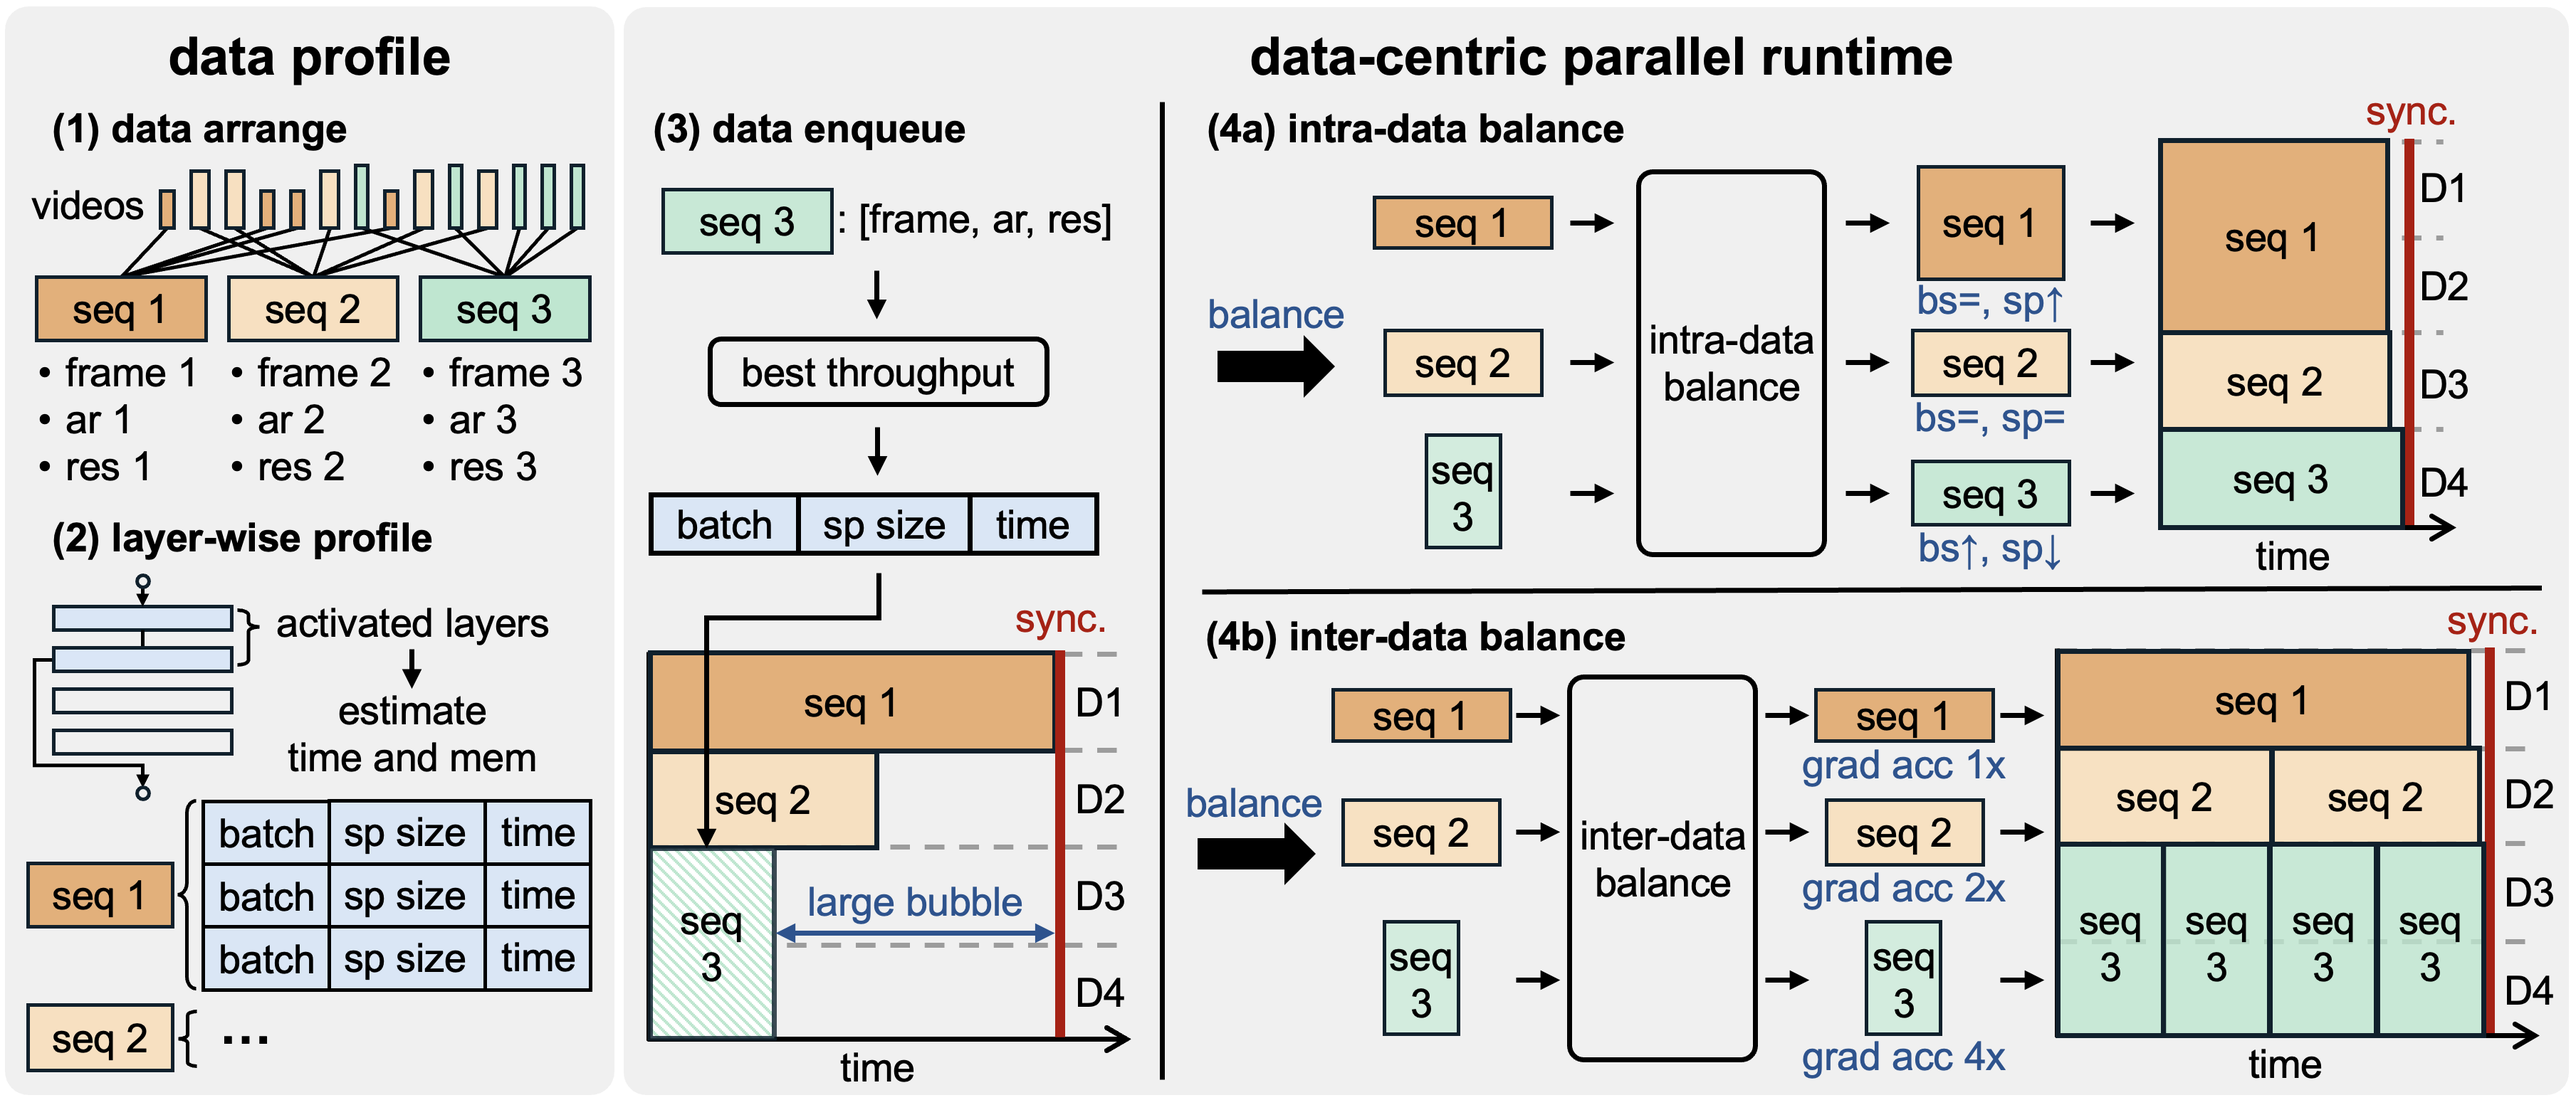
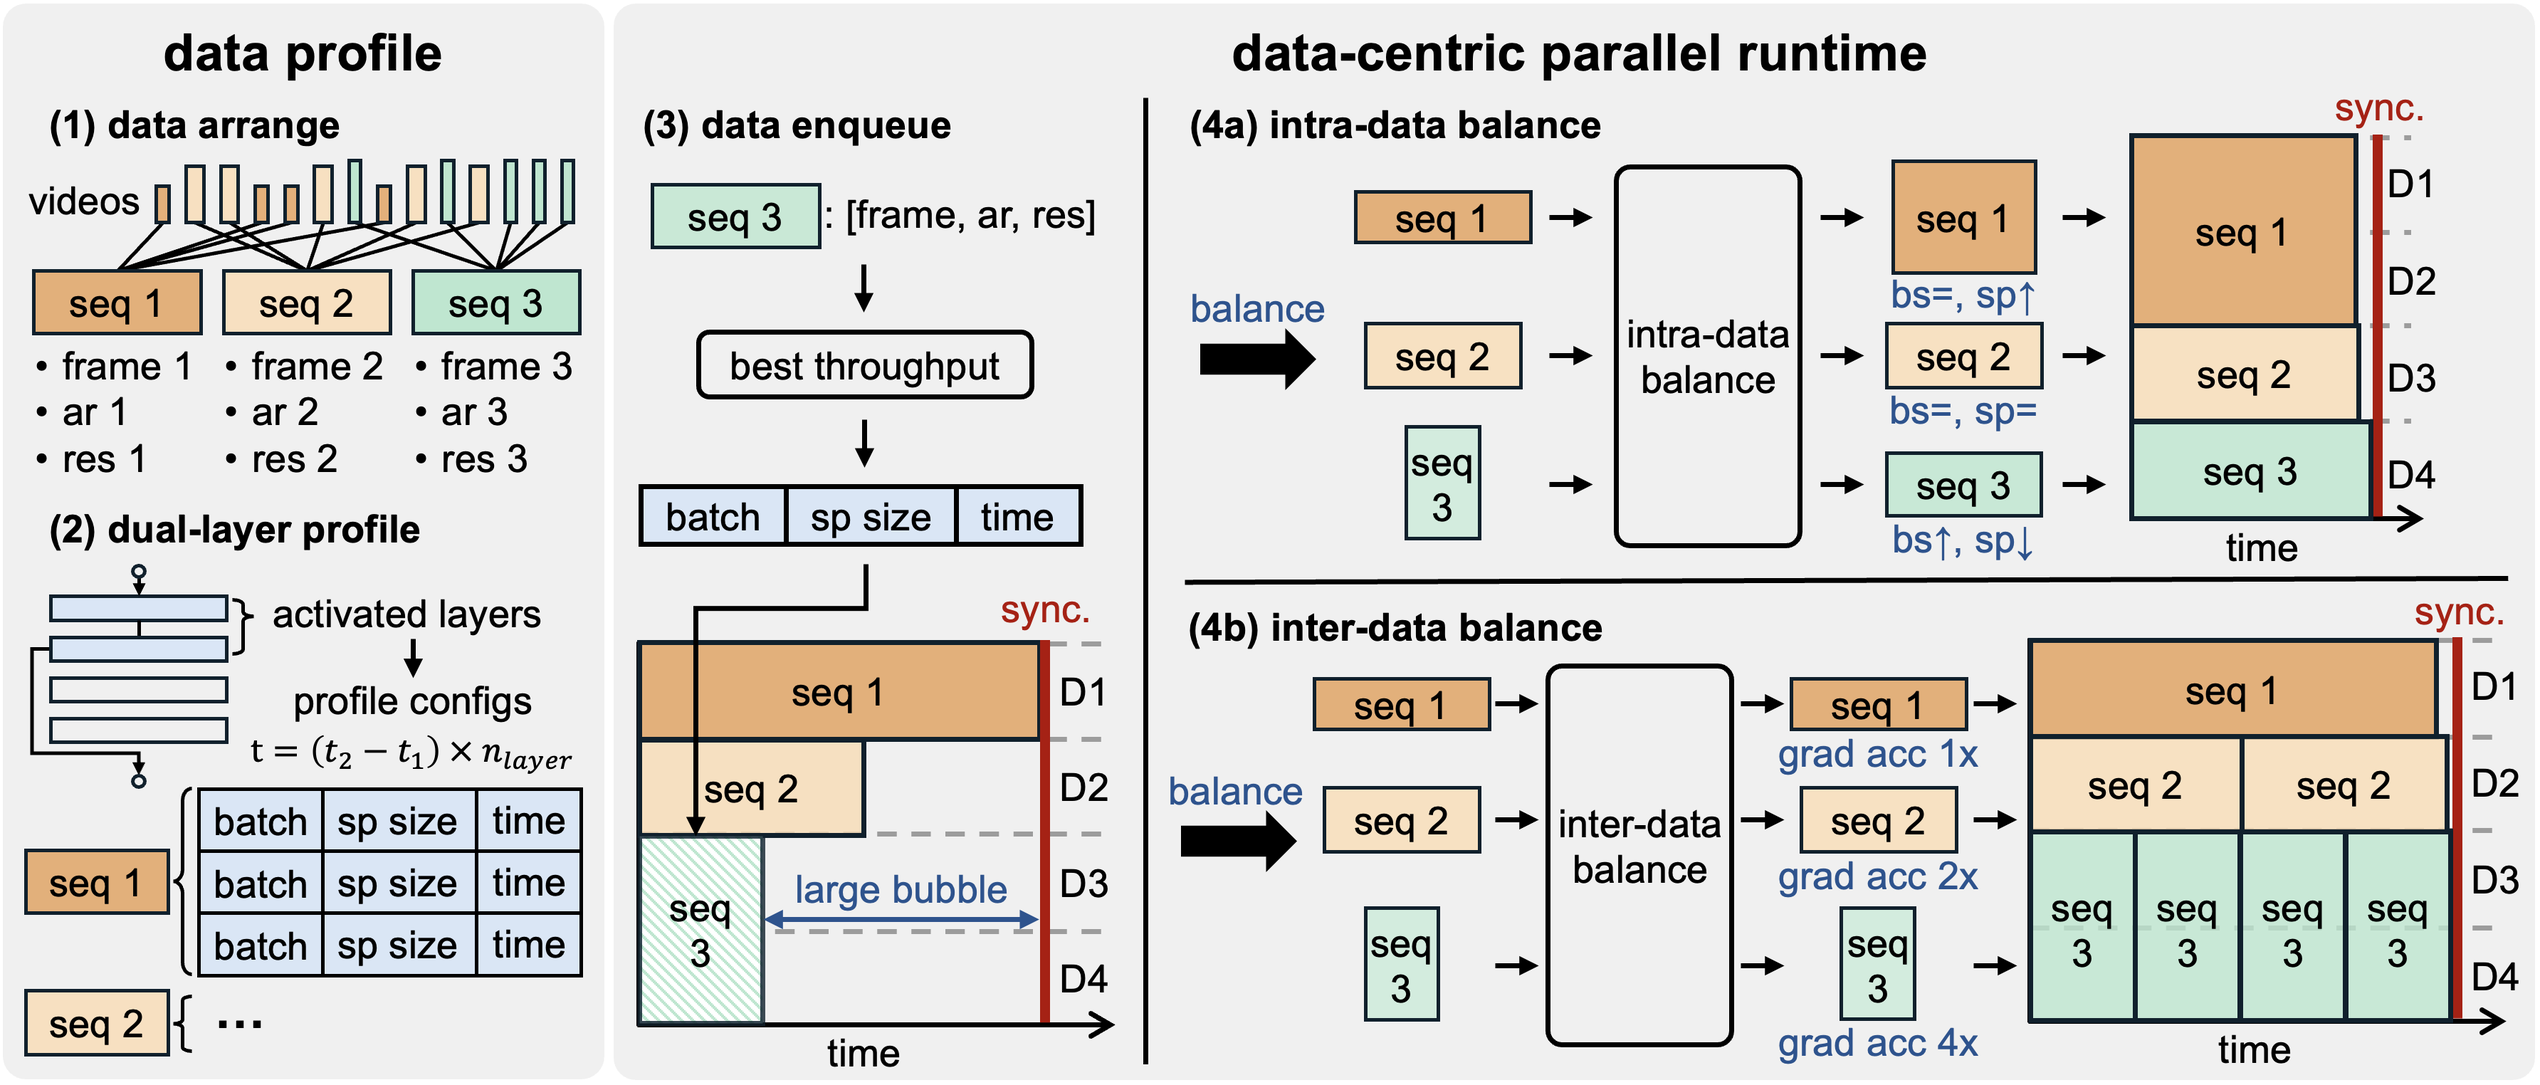
update

diff --git a/DCP/index.html b/DCP/index.html
@@ -241,7 +241,7 @@
             </p>
 
             <p>
-              However, bucket parallel struggles with workload imbalance at small batch sizes and communication inefficiency for shorter videos (Figure <a href="#compare">1(a)</a>), while packed parallel, despite better load balancing, incurs unnecessary communication overhead and requires complex implementation changes (Figure <a href="#compare">1(b)</a>). Both approaches fail to addresses two critical challenges in any-size video training: necessary sequence parallel for long videos and the unbalanced workloads from diverse video sizes, due to their fixed settings and lack of data awareness.
+              However, bucket parallel struggles with workload imbalance at small batch sizes and communication inefficiency for shorter videos, while packed parallel, despite better load balancing, incurs unnecessary communication overhead and requires complex implementation changes. Both approaches fail to addresses two critical challenges in any-size video training: necessary sequence parallel for long videos and the unbalanced workloads from diverse video sizes, due to their fixed settings and lack of data awareness.
             </p>
           </div>
 
@@ -258,12 +258,12 @@
                 To address these challenges, we propose <b><span style="color: #ff0000;">D</span><span style="color: #f80007;">a</span><span style="color: #f0000f;">t</span><span style="color: #e90016;">a</span><span style="color: #e2001d;">-</span><span style="color: #db0025;">C</span><span style="color: #d3002c;">e</span><span style="color: #cc0033;">n</span><span style="color: #c5003a;">t</span><span style="color: #bd0042;">r</span><span style="color: #b60049;">i</span><span style="color: #af0050;">c</span><span style="color: #a70058;"> </span><span style="color: #a0005f;">P</span><span style="color: #990066;">a</span><span style="color: #92006e;">r</span><span style="color: #8a0075;">a</span><span style="color: #83007c;">l</span><span style="color: #7c0083;">l</span><span style="color: #74008b;">e</span><span style="color: #6d0092;">l</span></b>, an innovative approach that transforms parallel training with data awareness. Instead of fixing all configs during training, our method adaptively change parallel and other settings driven by the incoming data, significantly improving computational efficiency and reducing communication overhead.
               </p>
               <p>
-                As shown in Figure <a href="#overview">2</a>, our method consists of two main stages: data profiling and data-centric runtime. In data profile stage, we classify videos by size and determine optimal settings for each sequence through efficient layer-wise profiling. At runtime, we first enqueue videos into the batch until the batch is full, and then dynamically balancing each sequences using two strategies:
+                As shown in Figure <a href="#overview">2</a>, our method consists of two main stages: data profile and data-centric runtime. In data profile stage, we classify videos by size and determine optimal settings for each sequence through fast dual-layer profile. At runtime, we first enqueue videos into the batch until it's full, and then dynamically balance each sequences using two strategies:
                 <li>
-                  <b>Intra-data balance</b> adjusts the intrinsic settings (<i>e.g.,</i> batch size, sequence parallel size) of the sequence.
+                  <b>Intra-data balance</b>: adjusts the intrinsic settings (<i>e.g.,</i> batch size, sequence parallel size) of the sequence.
                 </li>
                 <li>
-                  <b>Inter-data balance</b> optimizes among multiple sequences (<i>e.g.,</i> gradient accumulation) without changing intrinsic settings.
+                  <b>Inter-data balance</b>: optimizes among multiple sequences (<i>e.g.,</i> gradient accumulation) without changing intrinsic settings.
                 </li>
               </p>
             </div>
